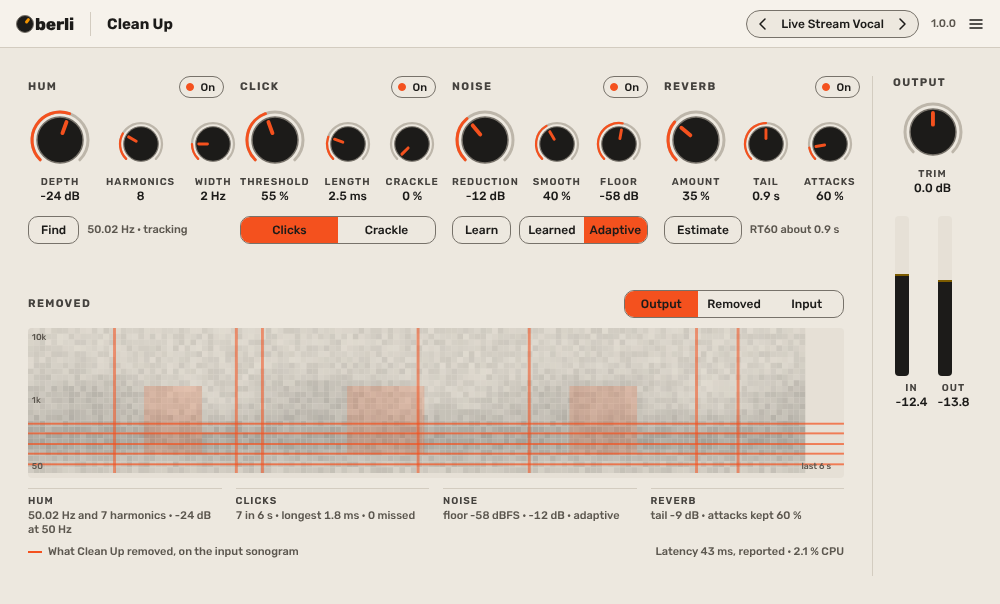
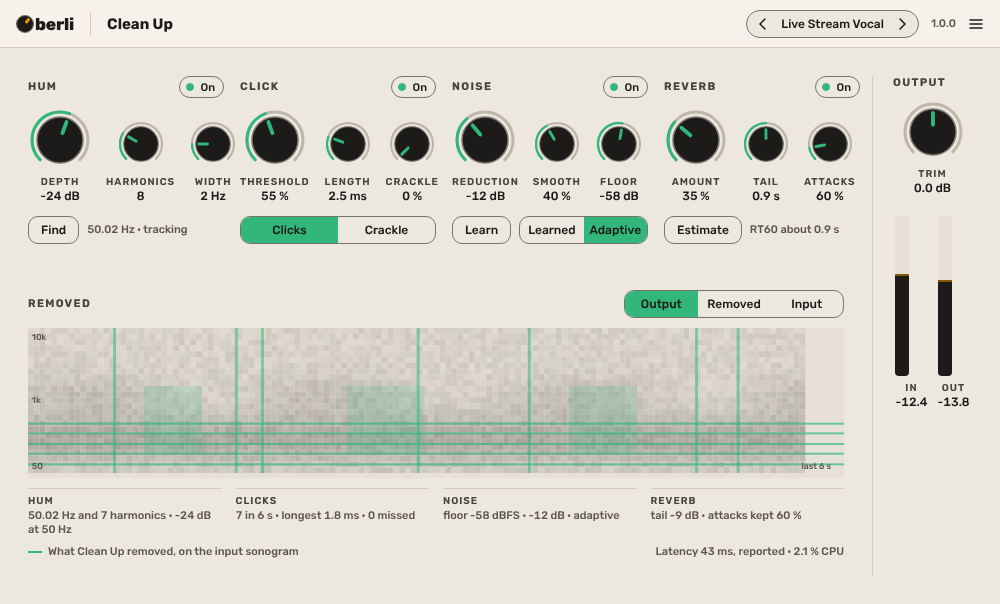
Category accent: sage (mix tools)
Oberli Audio moves from one accent per plugin to one accent per category
(decided 2026-11-01): mango brand, tangerine instruments, banana creative
effects, sage mix tools, peacock analysis and monitoring. CLAUDE.md and
the sketch frames updated; the registry and brand sheet follow in
bob-skills.

Claude-Session: https://claude.ai/code/session_01L1he38gxGMRoz4WAYr3LiS

diff --git a/docs/sketch.md b/docs/sketch.md
@@ -1,6 +1,6 @@
 # Clean Up - declick, dehum, denoise, de-reverb (Tier S sketch)
 
-Tier S, gate G0-G2 sketch. Oberli Audio effect, Bone theme, accent ember #F4511E (coral is taken by Sunday Organ in the family registry; jade: A B see, iris: Less S, saffron: Align, lime: Bench Line, mango: Horizon Pad). Static frame: `clean-up@1x.png` (1000 x 604 at 100 %), `clean-up@2x.png` for Retina viewing. Sound side: sound-design-bob is needed for four estimators (adaptive notch comb, AR click detector and interpolator, spectral noise gain, late-reverb envelope); this sketch states what each must do and the evidence that proves it.
+Tier S, gate G0-G2 sketch. Oberli Audio effect, Bone theme, accent Sage #33B679 (mix tools, category scheme confirmed 2026-11-01). Static frame: `clean-up@1x.png` (1000 x 604 at 100 %), `clean-up@2x.png` for Retina viewing. Sound side: sound-design-bob is needed for four estimators (adaptive notch comb, AR click detector and interpolator, spectral noise gain, late-reverb envelope); this sketch states what each must do and the evidence that proves it.
 
 ## 1. G0 brief
 
@@ -32,7 +32,7 @@ Tier S, gate G0-G2 sketch. Oberli Audio effect, Bone theme, accent ember #F4511E
 
 1. **Window** 1000 x 604 at 100 %, Bone; four modules side by side in signal-flow order, each 196 px, one on/off pill in its title row; one sonogram well.
 2. **Hero** is what the ear cannot judge: the input sonogram with everything Clean Up removed drawn over it in the accent (hum lines, click ticks, reverb-tail patches, the noise floor as a tint), with a Listen segment Output / Removed / Input above it, and the four activity readouts under it in words ("7 clicks in 6 s · longest 1.8 ms · 0 missed").
-3. **Accent** ember on the set and active only: value arcs and pointers, lit module LEDs, selected segments, and the removed energy on the sonogram, since that is the plugin's action. The meters are ink.
+3. **Accent** Sage on the set and active only: value arcs and pointers, lit module LEDs, selected segments, and the removed energy on the sonogram, since that is the plugin's action. The meters are ink.
 4. **Sections** from the table's groups: Hum, Click, Noise, Reverb, the Removed display (no parameters), Output (Trim 64 px, In and Out meters; no Mix knob, utility without a wet path, the A B see line for the brand sheet).
 5. **States**: modified (pill dims), drawer, About (charcoal page), bypass, module off (its knobs dim to `ink-subtle` arcs, the pill LED unlit, its overlay disappears from the sonogram), Learn capturing (1 s hairline progress under the Learn button, then the pill reads Learned), Find and Estimate running (same hairline, 200 ms), Removed listen (header pill shows "Listening: Removed" in `ink-subtle`, the sonogram shows the removed energy alone), Hum only (header meta "0 ms" instead of 43 ms).
 
@@ -152,7 +152,7 @@ Listen Removed = in (delayed by the latency) minus out
 
 ## 7. Open decisions for Björn
 - Decided 2026-11-01: name Clean Up (slug `clean-up`, plugin ID `CleanUp`); four modules (Hum, Click, Noise, Reverb); Removed listen is global only, at every tier, no per-module listen.
-- Accent: ember (coral belongs to Sunday Organ). Ember sits near the Bone `clip` red #B02A24; clip always carries the word CLIP, so the two stay apart.
+- Accent: Sage #33B679, by the category scheme (decided 2026-11-01): one accent per category, mix tools.
 
 ## 8. Report
 ```

diff --git a/CLAUDE.md b/CLAUDE.md
@@ -6,7 +6,7 @@ Guidance for Claude Code in this repository.
 
 Clean Up (Oberli Audio), an effect plugin (VST3; the formats ship.toml lists), built with
 JUCE pinned by commit (CMakeLists.txt) and started from the family template
-(Oberli-Audio/plugin-template). Theme bone, accent ember (#F4511E), plugin code
+(Oberli-Audio/plugin-template). Theme bone, accent sage (#33B679; category accent for mix tools, decided 2026-11-01, registry update pending in bob-skills), plugin code
 `Clup`, bundle id `com.oberliaudio.cleanup`: all from the family registry (ship-bob
 `registry/plugins.toml`), never changed after the first release.
 
